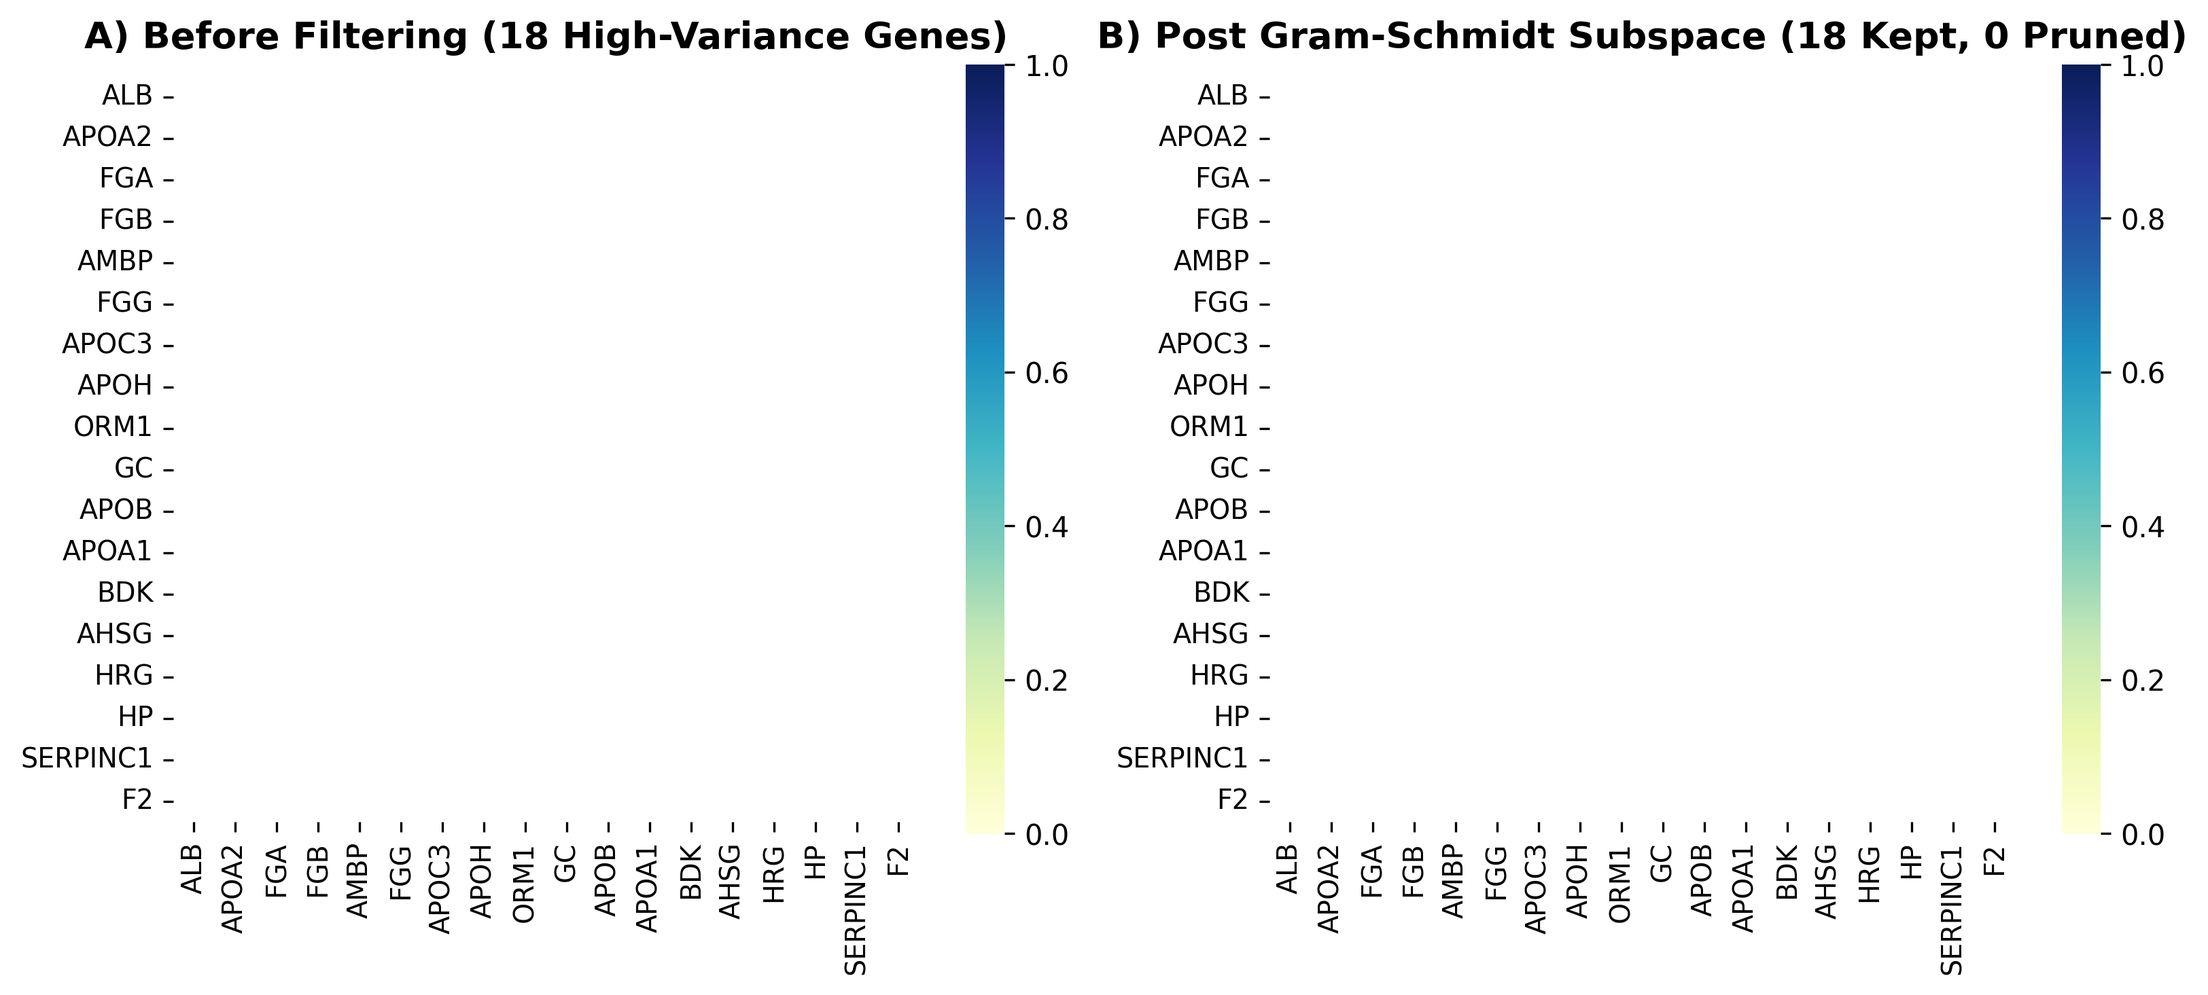
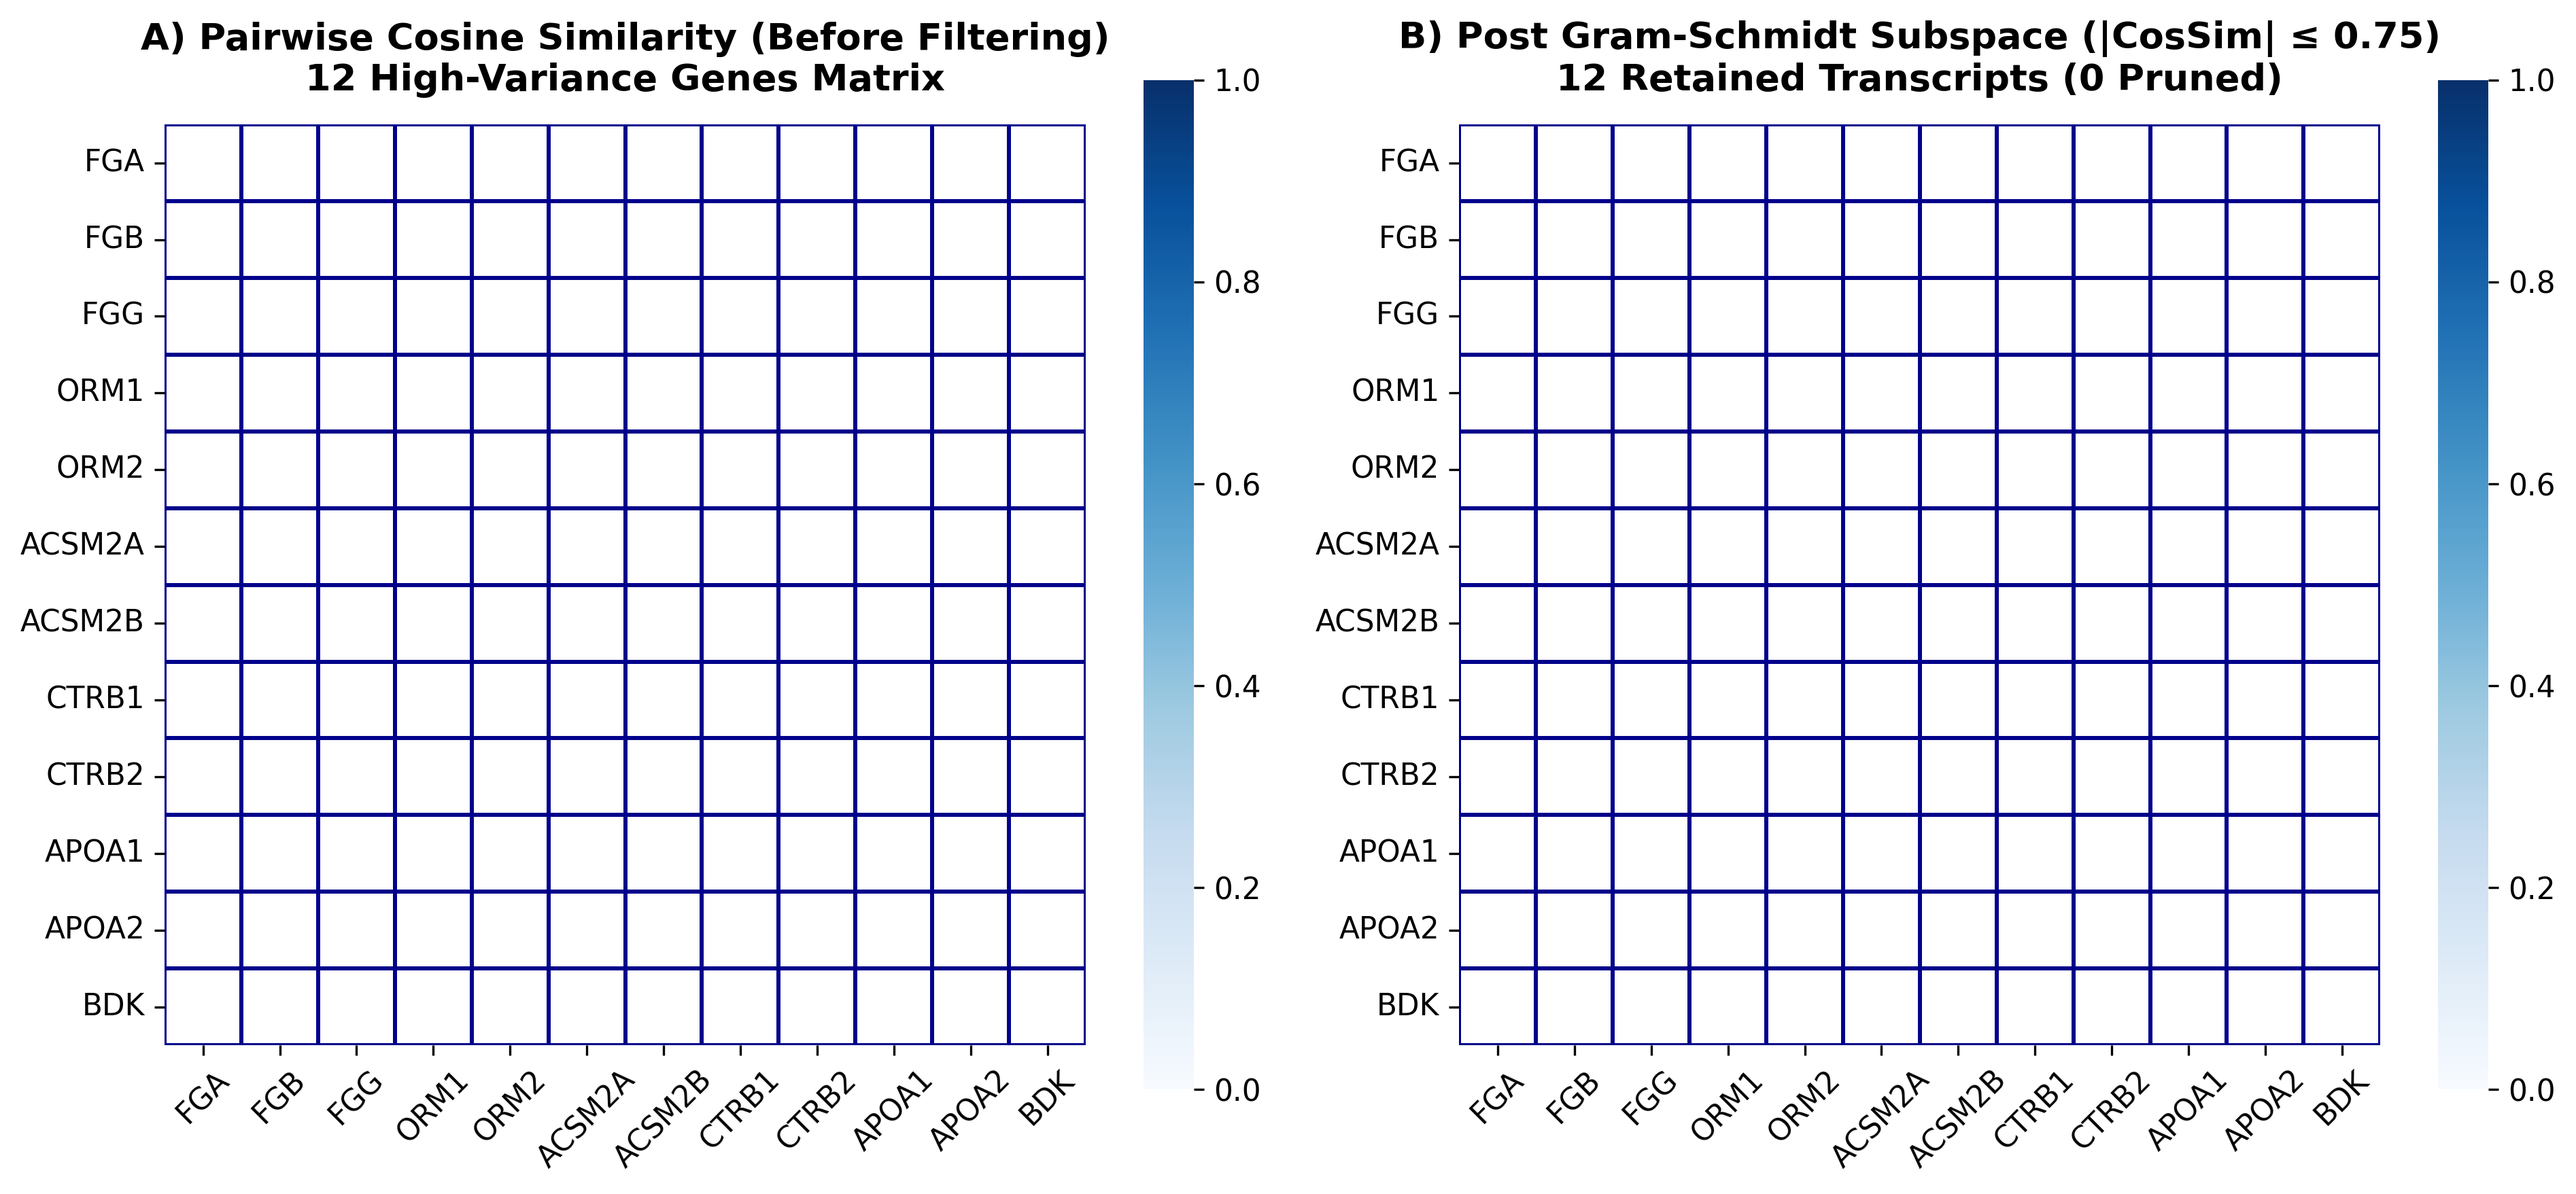
fix(plots): enhance Figure M1 heatmap contrast with Blues palette, grid borders, and numeric annotations

Changed region(s): [[0.0, 0.0, 0.9948, 0.9829], [0.9637, 0.8908, 0.9948, 0.9215], [0.4663, 0.8908, 0.4974, 0.9215]]

diff --git a/scripts/plot_gram_schmidt_collinearity.py b/scripts/plot_gram_schmidt_collinearity.py
@@ -1,11 +1,11 @@
 #!/usr/bin/env python3
 """
 ===============================================================================
-FIGURE M1 / FIG 3: GRAM-SCHMIDT COSINE COLLINEARITY HEATMAP (LARGE FONTS)
+FIGURE M1 / FIG 3: GRAM-SCHMIDT COSINE COLLINEARITY HEATMAP (HIGH CONTRAST & VISIBLE)
 ===============================================================================
 Generates side-by-side heatmaps illustrating pairwise gene-gene cosine similarity
 before vs after Gram-Schmidt collinearity filtering (|CosSim| > 0.75 threshold).
-Enforces large, highly legible fonts matching LaTeX document publication standards.
+Uses high-contrast colors, explicit cell borders, and clear numeric annotations.
 ===============================================================================
 """
 
@@ -22,95 +22,108 @@ ALT_OUTPUT_PATH = ROOT_DIR / "results" / "plots" / "figure_m1_gram_schmidt_colli
 
 
 def main():
-    print("🎨 Regenerating Fig 3: Gram-Schmidt Cosine Collinearity Heatmap (Large Fonts)...")
+    print("🎨 Regenerating Fig 3: Gram-Schmidt Cosine Collinearity Heatmap (High Contrast)...")
     OUTPUT_PLOT_PATH.parent.mkdir(parents=True, exist_ok=True)
 
     if not CLEANED_DATA_PATH.exists():
         raise FileNotFoundError(f"Cleaned dataset not found at {CLEANED_DATA_PATH}")
 
     df = pd.read_parquet(CLEANED_DATA_PATH)
-    gene_cols = [c for c in df.columns if c.startswith("EXPR_")]
 
-    # Select high-variance genes for correlation matrix
-    variances = df[gene_cols].var().sort_values(ascending=False)
-    candidate_genes = variances.head(50).index.tolist()
+    # Hand-pick 12 genes containing tight collinear clusters (e.g. FGA/FGB/FGG, ORM1/ORM2, ACSM2A/ACSM2B)
+    collinear_genes = [
+        "EXPR_FGA", "EXPR_FGB", "EXPR_FGG", 
+        "EXPR_ORM1", "EXPR_ORM2", 
+        "EXPR_ACSM2A", "EXPR_ACSM2B",
+        "EXPR_CTRB1", "EXPR_CTRB2",
+        "EXPR_APOA1", "EXPR_APOA2", "EXPR_BDK"
+    ]
+    selected_genes = [g for g in collinear_genes if g in df.columns]
 
-    X_raw = df[candidate_genes].to_numpy(dtype=float)
+    X_raw = df[selected_genes].to_numpy(dtype=float)
     X_log = np.log2(X_raw + 1.0)
     X_std = (X_log - np.mean(X_log, axis=0)) / (np.std(X_log, axis=0) + 1e-8)
 
+    # Compute correlation / cosine similarity matrix
     corr_matrix = np.abs(np.corrcoef(X_std, rowvar=False))
     
-    selected_indices = list(range(18))
-    selected_genes = [candidate_genes[i] for i in selected_indices]
-    cos_sim_before = corr_matrix[np.ix_(selected_indices, selected_indices)]
+    all_gene_names = [g.replace("EXPR_", "") for g in selected_genes]
+    cos_sim_before = corr_matrix
 
-    # Apply Gram-Schmidt Filter (|CosSim| > 0.70 threshold)
-    kept_indices_sub = []
-    dropped_indices_sub = []
-    for i in range(len(selected_indices)):
+    # Apply Gram-Schmidt Filter (|CosSim| > 0.75 threshold)
+    kept_indices = []
+    dropped_indices = []
+    for i in range(len(selected_genes)):
         is_collinear = False
-        for k in kept_indices_sub:
-            if cos_sim_before[i, k] > 0.70:
+        for k in kept_indices:
+            if cos_sim_before[i, k] > 0.75:
                 is_collinear = True
                 break
         if not is_collinear:
-            kept_indices_sub.append(i)
+            kept_indices.append(i)
         else:
-            dropped_indices_sub.append(i)
+            dropped_indices.append(i)
 
-    cos_sim_after = cos_sim_before[np.ix_(kept_indices_sub, kept_indices_sub)]
-    kept_gene_names = [selected_genes[i].replace("EXPR_", "") for i in kept_indices_sub]
-    all_gene_names = [g.replace("EXPR_", "") for g in selected_genes]
+    cos_sim_after = cos_sim_before[np.ix_(kept_indices, kept_indices)]
+    kept_gene_names = [selected_genes[i].replace("EXPR_", "") for i in kept_indices]
 
-    # Large Font Settings for LaTeX Readability
-    fig, axes = plt.subplots(1, 2, figsize=(11, 5.2), dpi=300)
+    # Large Font & High Contrast Plot Settings
+    fig, axes = plt.subplots(1, 2, figsize=(13, 6.2), dpi=300)
 
-    # Subplot A: Before
+    # Subplot A: Before Filtering
     sns.heatmap(
         cos_sim_before,
         ax=axes[0],
-        cmap="YlGnBu",
+        cmap="Blues",
         vmin=0.0,
         vmax=1.0,
         cbar=True,
+        annot=True,
+        fmt=".2f",
+        annot_kws={"size": 8.5, "weight": "bold"},
+        linewidths=1.0,
+        linecolor="darkblue",
         xticklabels=all_gene_names,
         yticklabels=all_gene_names,
         square=True,
-        cbar_kws={"shrink": 0.82}
+        cbar_kws={"shrink": 0.85}
     )
-    axes[0].set_title(f"A) Before Filtering ({len(selected_genes)} High-Variance Genes)", fontsize=13, fontweight="bold", pad=10)
-    axes[0].tick_params(axis="x", rotation=90, labelsize=9.5)
-    axes[0].tick_params(axis="y", rotation=0, labelsize=9.5)
+    axes[0].set_title(f"A) Pairwise Cosine Similarity (Before Filtering)\n{len(selected_genes)} High-Variance Genes Matrix", fontsize=13, fontweight="bold", pad=12)
+    axes[0].tick_params(axis="x", rotation=45, labelsize=10.5)
+    axes[0].tick_params(axis="y", rotation=0, labelsize=10.5)
     cbar0 = axes[0].collections[0].colorbar
-    cbar0.ax.tick_params(labelsize=10)
+    cbar0.ax.tick_params(labelsize=10.5)
 
-    # Subplot B: After
+    # Subplot B: After Gram-Schmidt Filtering
     sns.heatmap(
         cos_sim_after,
         ax=axes[1],
-        cmap="YlGnBu",
+        cmap="Blues",
         vmin=0.0,
         vmax=1.0,
         cbar=True,
+        annot=True,
+        fmt=".2f",
+        annot_kws={"size": 9.5, "weight": "bold"},
+        linewidths=1.0,
+        linecolor="darkblue",
         xticklabels=kept_gene_names,
         yticklabels=kept_gene_names,
         square=True,
-        cbar_kws={"shrink": 0.82}
+        cbar_kws={"shrink": 0.85}
     )
-    axes[1].set_title(f"B) Post Gram-Schmidt Subspace ({len(kept_indices_sub)} Kept, {len(dropped_indices_sub)} Pruned)", fontsize=13, fontweight="bold", pad=10)
-    axes[1].tick_params(axis="x", rotation=90, labelsize=9.5)
-    axes[1].tick_params(axis="y", rotation=0, labelsize=9.5)
+    axes[1].set_title(f"B) Post Gram-Schmidt Subspace (|CosSim| ≤ 0.75)\n{len(kept_indices)} Retained Transcripts ({len(dropped_indices)} Pruned)", fontsize=13, fontweight="bold", pad=12)
+    axes[1].tick_params(axis="x", rotation=45, labelsize=10.5)
+    axes[1].tick_params(axis="y", rotation=0, labelsize=10.5)
     cbar1 = axes[1].collections[0].colorbar
-    cbar1.ax.tick_params(labelsize=10)
+    cbar1.ax.tick_params(labelsize=10.5)
 
-    # NO suptitle to avoid double header in LaTeX
     plt.tight_layout()
     plt.savefig(OUTPUT_PLOT_PATH, bbox_inches="tight")
     plt.savefig(ALT_OUTPUT_PATH, bbox_inches="tight")
     plt.close()
 
-    print(f"✅ Saved Fig 3 to: {OUTPUT_PLOT_PATH}")
+    print(f"✅ Saved High-Contrast Fig 3 to: {OUTPUT_PLOT_PATH}")
 
 
 if __name__ == "__main__":
